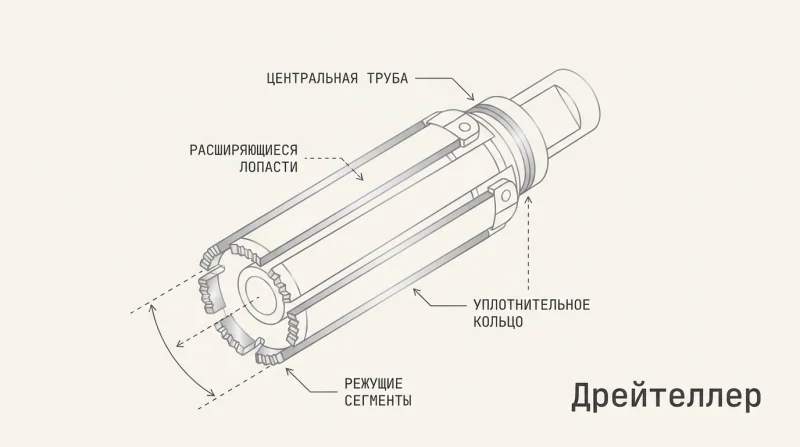
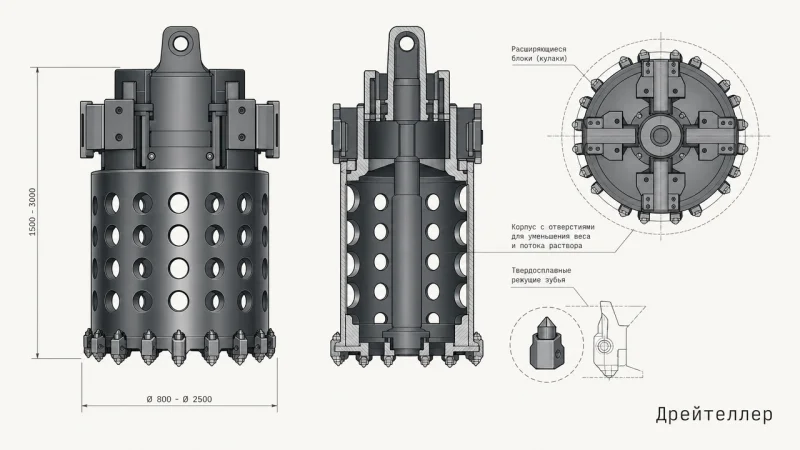
обновил иллюстрации дрейтеллера и келли-штанги по референсам anker-pk.ru

diff --git a/index.html b/index.html
@@ -565,9 +565,9 @@ section{position:relative;z-index:1}
     <div class="cc"><div class="cci"><img src="images/tool-shnek.webp?v=1" alt="Шнеки" width="280" height="140" loading="lazy" decoding="async" style="width:100%;height:140px;object-fit:cover;border-radius:12px;margin-bottom:12px"><div class="model">Шнеки</div><div class="spec">Одно- и двухзаходные<br>ø520–1080 мм · 20 типоразмеров</div></div></div>
     <div class="cc"><div class="cci"><img src="images/tool-kovshebur.webp?v=1" alt="Ковшебур" width="280" height="140" loading="lazy" decoding="async" style="width:100%;height:140px;object-fit:cover;border-radius:12px;margin-bottom:12px"><div class="model">Ковшебуры</div><div class="spec">Одно- и двухзаходные<br>ø520–1080 мм · 20 типоразмеров</div></div></div>
     <div class="cc"><div class="cci"><img src="images/tool-cfa.webp?v=1" alt="CFA" width="280" height="140" loading="lazy" decoding="async" style="width:100%;height:140px;object-fit:cover;border-radius:12px;margin-bottom:12px"><div class="model">CFA шнеки</div><div class="spec">Непрерывный полый шнек<br>ø350–600 мм × 3/6 м</div></div></div>
-    <div class="cc"><div class="cci"><img src="images/tool-dreiteller.webp?v=1" alt="Дрейтеллер" width="280" height="140" loading="lazy" decoding="async" style="width:100%;height:140px;object-fit:cover;border-radius:12px;margin-bottom:12px"><div class="model">Дрейтеллеры</div><div class="spec">6 типоразмеров<br>ø620–1200 мм</div></div></div>
+    <div class="cc"><div class="cci"><img src="images/tool-dreiteller.webp?v=2" alt="Дрейтеллер" width="280" height="140" loading="lazy" decoding="async" style="width:100%;height:140px;object-fit:cover;border-radius:12px;margin-bottom:12px"><div class="model">Дрейтеллеры</div><div class="spec">6 типоразмеров<br>ø620–1200 мм</div></div></div>
     <div class="cc"><div class="cci"><img src="images/tool-tremie.webp?v=1" alt="Бетонолит" width="280" height="140" loading="lazy" decoding="async" style="width:100%;height:140px;object-fit:cover;border-radius:12px;margin-bottom:12px"><div class="model">Бетонолитные трубы</div><div class="spec">ø194, 219, 250 мм × 2 м</div></div></div>
-    <div class="cc"><div class="cci"><img src="images/tool-kelly.webp?v=1" alt="Келли" width="280" height="140" loading="lazy" decoding="async" style="width:100%;height:140px;object-fit:cover;border-radius:12px;margin-bottom:12px"><div class="model">Келли-штанги</div><div class="spec">Фрикционные и замковые<br>до 4 секций × 36 м</div></div></div>
+    <div class="cc"><div class="cci"><img src="images/tool-kelly.webp?v=2" alt="Келли" width="280" height="140" loading="lazy" decoding="async" style="width:100%;height:140px;object-fit:cover;border-radius:12px;margin-bottom:12px"><div class="model">Келли-штанги</div><div class="spec">Фрикционные и замковые<br>до 4 секций × 36 м</div></div></div>
   </div>
   <p style="font-size:12px;color:var(--muted);text-align:center;margin-top:16px">Совместимость: Bauer, Liebherr, Delmag, Soilmec, Casagrande, MAIT, Sany, XCMG и TYSIM</p>
 </div>
